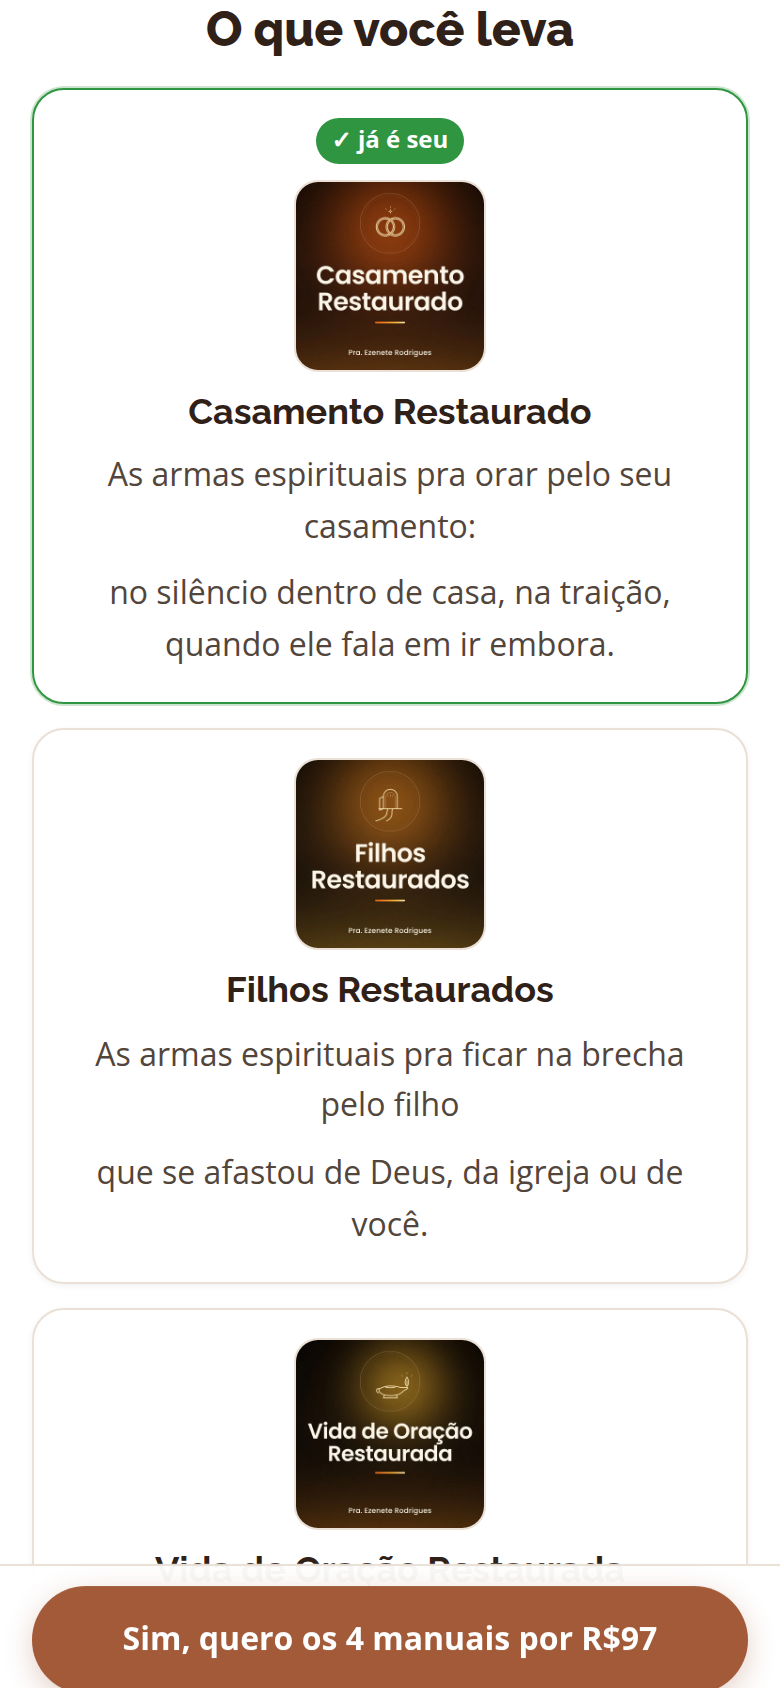
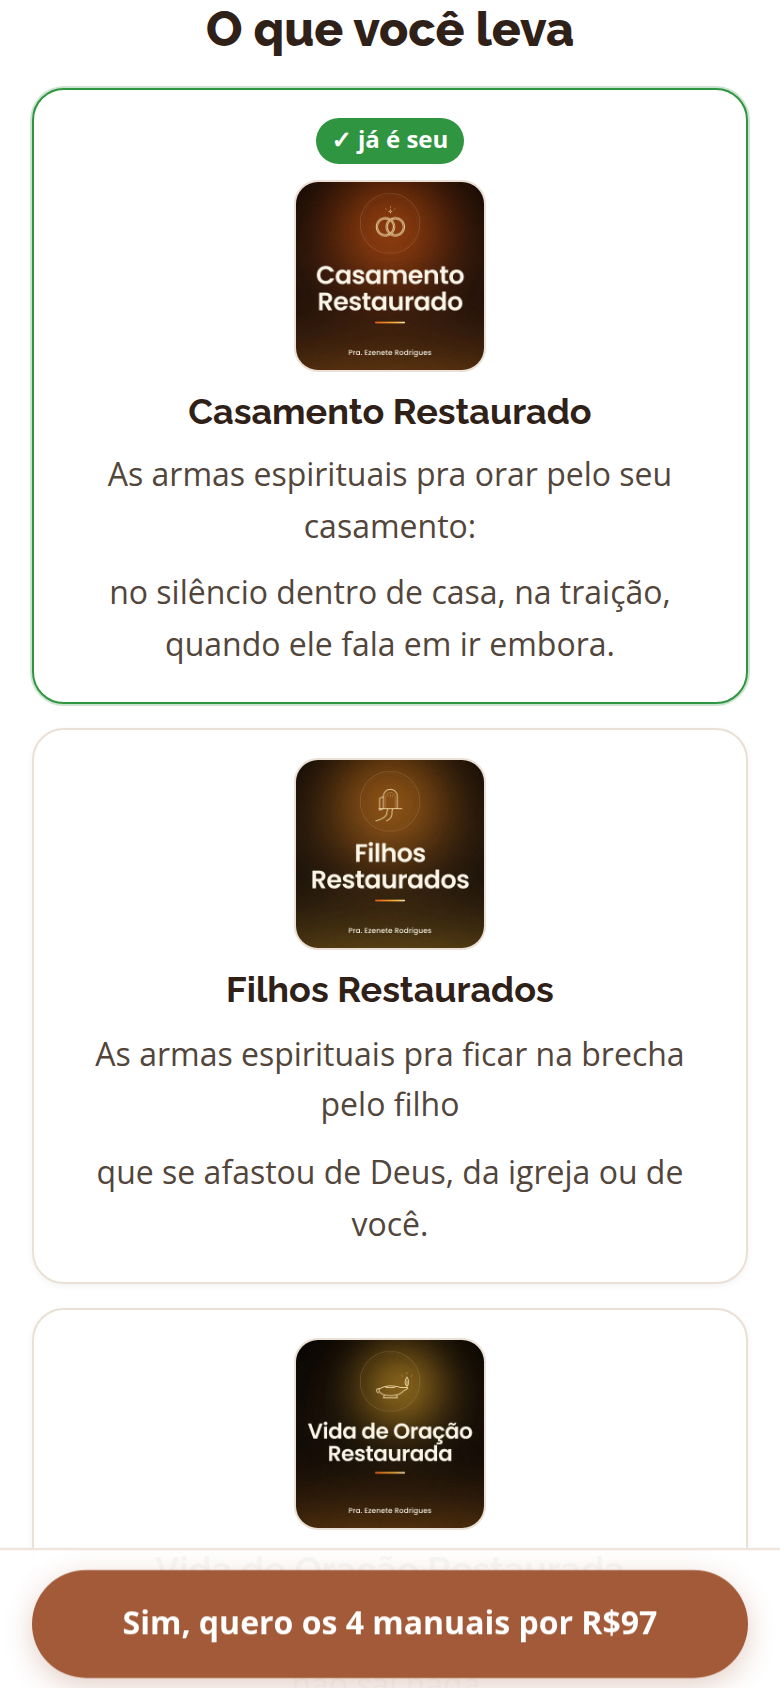
feat: ativa o script de obrigado da Eduzz nas duas ofertas
O thankyou.js entra no fim de cada widget. Sem transactionkey o bloco da Eduzz fica oculto e os links de checkout continuam os da página.

Changed region(s): [[0.0308, 0.9242, 0.9846, 1.0]]

diff --git a/paginas-wp/familia-restaurada-ofertas/preview/harness.html b/paginas-wp/familia-restaurada-ofertas/preview/harness.html
@@ -13,10 +13,6 @@
 </head>
 <body>
 <template id="tpl-upsell"><link rel="stylesheet" href="https://fonts.googleapis.com/css2?family=Raleway:wght@600;700;800&family=Open+Sans:ital,wght@0,400;0,500;0,600;0,700;1,400;1,600&display=swap">
-<!-- ===== EDUZZ THANK-YOU SCRIPT (Checkout Elements, Tópico 3) — PENDING FROM PETER =====
-     Paste the Eduzz script here, in place of the line below, and uncomment it. Change nothing else.
-<script>/* EDUZZ_SCRIPT_AQUI */</script>
-===== END EDUZZ SCRIPT ===== -->
 <div id="fr-oferta" data-page="upsell"></div>
 <style>
 /* Família Restaurada · oferta. Seletores presos em #fr-oferta (Elementor 3.4.6 / Astra). */
@@ -182,6 +178,8 @@ width:100%;max-width:100%;min-height:100vh;overflow-x:hidden;position:relative;
 #fr-oferta .fr-fixed{transition:none}
 }
 html.fr-qa #fr-oferta.fr-anim .fr-sec{opacity:1 !important;transform:none !important}
+/* Sem transactionkey o thankyou.js da Eduzz injeta #sun-loading e #sun-root (spinner e "transação não encontrada"). Escondidos para a oferta continuar intacta. Com a chave, a classe não entra e o bloco da Eduzz aparece. */
+html.fr-no-eduzz #sun-loading,html.fr-no-eduzz #sun-root{display:none !important}
 </style>
 <script>
 var CFG = {
@@ -704,12 +702,24 @@ render();
   bindAll(document);
 })();
 </script>
+<script>
+(function(){
+  var key = "";
+  try {
+    var q = new URLSearchParams(location.search);
+    key = q.get("transactionkey");
+    if (!key) key = q.get("transactionKey");
+  } catch (e) {}
+  if (!key) {
+    try { if (window.Eduzz) { if (window.Eduzz.transactionKey) key = window.Eduzz.transactionKey; } } catch (e2) {}
+  }
+  if (key) return;
+  document.documentElement.classList.add("fr-no-eduzz");
+})();
+</script>
+<script src="https://cdn.eduzzcdn.com/sun/thankyou/thankyou.js"></script>
 </template>
 <template id="tpl-downsell"><link rel="stylesheet" href="https://fonts.googleapis.com/css2?family=Raleway:wght@600;700;800&family=Open+Sans:ital,wght@0,400;0,500;0,600;0,700;1,400;1,600&display=swap">
-<!-- ===== EDUZZ THANK-YOU SCRIPT (Checkout Elements, Tópico 3) — PENDING FROM PETER =====
-     Paste the Eduzz script here, in place of the line below, and uncomment it. Change nothing else.
-<script>/* EDUZZ_SCRIPT_AQUI */</script>
-===== END EDUZZ SCRIPT ===== -->
 <div id="fr-oferta" data-page="downsell"></div>
 <style>
 /* Família Restaurada · oferta. Seletores presos em #fr-oferta (Elementor 3.4.6 / Astra). */
@@ -875,6 +885,8 @@ width:100%;max-width:100%;min-height:100vh;overflow-x:hidden;position:relative;
 #fr-oferta .fr-fixed{transition:none}
 }
 html.fr-qa #fr-oferta.fr-anim .fr-sec{opacity:1 !important;transform:none !important}
+/* Sem transactionkey o thankyou.js da Eduzz injeta #sun-loading e #sun-root (spinner e "transação não encontrada"). Escondidos para a oferta continuar intacta. Com a chave, a classe não entra e o bloco da Eduzz aparece. */
+html.fr-no-eduzz #sun-loading,html.fr-no-eduzz #sun-root{display:none !important}
 </style>
 <script>
 var CFG = {
@@ -1397,6 +1409,22 @@ render();
   bindAll(document);
 })();
 </script>
+<script>
+(function(){
+  var key = "";
+  try {
+    var q = new URLSearchParams(location.search);
+    key = q.get("transactionkey");
+    if (!key) key = q.get("transactionKey");
+  } catch (e) {}
+  if (!key) {
+    try { if (window.Eduzz) { if (window.Eduzz.transactionKey) key = window.Eduzz.transactionKey; } } catch (e2) {}
+  }
+  if (key) return;
+  document.documentElement.classList.add("fr-no-eduzz");
+})();
+</script>
+<script src="https://cdn.eduzzcdn.com/sun/thankyou/thankyou.js"></script>
 </template>
 <script>
 (function(){
@@ -1409,15 +1437,16 @@ render();
   if (!tpl) return;
   var frag = tpl.content.cloneNode(true);
   var scripts = frag.querySelectorAll("script");
-  var codes = [];
+  var jobs = [];
   Array.prototype.forEach.call(scripts, function(sc){
-    codes.push(sc.textContent || "");
+    jobs.push({ src: sc.getAttribute("src") || "", code: sc.textContent || "" });
     if (sc.parentNode) sc.parentNode.removeChild(sc);
   });
   document.body.appendChild(frag);
-  codes.forEach(function(code){
+  jobs.forEach(function(job){
     var s = document.createElement("script");
-    s.textContent = code;
+    if (job.src) s.src = job.src;
+    else s.textContent = job.code;
     document.body.appendChild(s);
   });
 })();

diff --git a/paginas-wp/familia-restaurada-ofertas/preview/familia-oferta-2/index.html b/paginas-wp/familia-restaurada-ofertas/preview/familia-oferta-2/index.html
@@ -9,10 +9,6 @@
 </head>
 <body>
 <link rel="stylesheet" href="https://fonts.googleapis.com/css2?family=Raleway:wght@600;700;800&family=Open+Sans:ital,wght@0,400;0,500;0,600;0,700;1,400;1,600&display=swap">
-<!-- ===== EDUZZ THANK-YOU SCRIPT (Checkout Elements, Tópico 3) — PENDING FROM PETER =====
-     Paste the Eduzz script here, in place of the line below, and uncomment it. Change nothing else.
-<script>/* EDUZZ_SCRIPT_AQUI */</script>
-===== END EDUZZ SCRIPT ===== -->
 <div id="fr-oferta" data-page="downsell"></div>
 <style>
 /* Família Restaurada · oferta. Seletores presos em #fr-oferta (Elementor 3.4.6 / Astra). */
@@ -178,6 +174,8 @@ width:100%;max-width:100%;min-height:100vh;overflow-x:hidden;position:relative;
 #fr-oferta .fr-fixed{transition:none}
 }
 html.fr-qa #fr-oferta.fr-anim .fr-sec{opacity:1 !important;transform:none !important}
+/* Sem transactionkey o thankyou.js da Eduzz injeta #sun-loading e #sun-root (spinner e "transação não encontrada"). Escondidos para a oferta continuar intacta. Com a chave, a classe não entra e o bloco da Eduzz aparece. */
+html.fr-no-eduzz #sun-loading,html.fr-no-eduzz #sun-root{display:none !important}
 </style>
 <script>
 var CFG = {
@@ -700,6 +698,22 @@ render();
   bindAll(document);
 })();
 </script>
+<script>
+(function(){
+  var key = "";
+  try {
+    var q = new URLSearchParams(location.search);
+    key = q.get("transactionkey");
+    if (!key) key = q.get("transactionKey");
+  } catch (e) {}
+  if (!key) {
+    try { if (window.Eduzz) { if (window.Eduzz.transactionKey) key = window.Eduzz.transactionKey; } } catch (e2) {}
+  }
+  if (key) return;
+  document.documentElement.classList.add("fr-no-eduzz");
+})();
+</script>
+<script src="https://cdn.eduzzcdn.com/sun/thankyou/thankyou.js"></script>
 
 </body>
 </html>

diff --git a/paginas-wp/familia-restaurada-ofertas/preview/familia-oferta/index.html b/paginas-wp/familia-restaurada-ofertas/preview/familia-oferta/index.html
@@ -9,10 +9,6 @@
 </head>
 <body>
 <link rel="stylesheet" href="https://fonts.googleapis.com/css2?family=Raleway:wght@600;700;800&family=Open+Sans:ital,wght@0,400;0,500;0,600;0,700;1,400;1,600&display=swap">
-<!-- ===== EDUZZ THANK-YOU SCRIPT (Checkout Elements, Tópico 3) — PENDING FROM PETER =====
-     Paste the Eduzz script here, in place of the line below, and uncomment it. Change nothing else.
-<script>/* EDUZZ_SCRIPT_AQUI */</script>
-===== END EDUZZ SCRIPT ===== -->
 <div id="fr-oferta" data-page="upsell"></div>
 <style>
 /* Família Restaurada · oferta. Seletores presos em #fr-oferta (Elementor 3.4.6 / Astra). */
@@ -178,6 +174,8 @@ width:100%;max-width:100%;min-height:100vh;overflow-x:hidden;position:relative;
 #fr-oferta .fr-fixed{transition:none}
 }
 html.fr-qa #fr-oferta.fr-anim .fr-sec{opacity:1 !important;transform:none !important}
+/* Sem transactionkey o thankyou.js da Eduzz injeta #sun-loading e #sun-root (spinner e "transação não encontrada"). Escondidos para a oferta continuar intacta. Com a chave, a classe não entra e o bloco da Eduzz aparece. */
+html.fr-no-eduzz #sun-loading,html.fr-no-eduzz #sun-root{display:none !important}
 </style>
 <script>
 var CFG = {
@@ -700,6 +698,22 @@ render();
   bindAll(document);
 })();
 </script>
+<script>
+(function(){
+  var key = "";
+  try {
+    var q = new URLSearchParams(location.search);
+    key = q.get("transactionkey");
+    if (!key) key = q.get("transactionKey");
+  } catch (e) {}
+  if (!key) {
+    try { if (window.Eduzz) { if (window.Eduzz.transactionKey) key = window.Eduzz.transactionKey; } } catch (e2) {}
+  }
+  if (key) return;
+  document.documentElement.classList.add("fr-no-eduzz");
+})();
+</script>
+<script src="https://cdn.eduzzcdn.com/sun/thankyou/thankyou.js"></script>
 
 </body>
 </html>

diff --git a/paginas-wp/familia-restaurada-ofertas/dist/downsell-widget.html b/paginas-wp/familia-restaurada-ofertas/dist/downsell-widget.html
@@ -1,8 +1,4 @@
 <link rel="stylesheet" href="https://fonts.googleapis.com/css2?family=Raleway:wght@600;700;800&family=Open+Sans:ital,wght@0,400;0,500;0,600;0,700;1,400;1,600&display=swap">
-<!-- ===== EDUZZ THANK-YOU SCRIPT (Checkout Elements, Tópico 3) — PENDING FROM PETER =====
-     Paste the Eduzz script here, in place of the line below, and uncomment it. Change nothing else.
-<script>/* EDUZZ_SCRIPT_AQUI */</script>
-===== END EDUZZ SCRIPT ===== -->
 <div id="fr-oferta" data-page="downsell"></div>
 <style>
 /* Família Restaurada · oferta. Seletores presos em #fr-oferta (Elementor 3.4.6 / Astra). */
@@ -168,6 +164,8 @@ width:100%;max-width:100%;min-height:100vh;overflow-x:hidden;position:relative;
 #fr-oferta .fr-fixed{transition:none}
 }
 html.fr-qa #fr-oferta.fr-anim .fr-sec{opacity:1 !important;transform:none !important}
+/* Sem transactionkey o thankyou.js da Eduzz injeta #sun-loading e #sun-root (spinner e "transação não encontrada"). Escondidos para a oferta continuar intacta. Com a chave, a classe não entra e o bloco da Eduzz aparece. */
+html.fr-no-eduzz #sun-loading,html.fr-no-eduzz #sun-root{display:none !important}
 </style>
 <script>
 var CFG = {
@@ -690,3 +688,19 @@ render();
   bindAll(document);
 })();
 </script>
+<script>
+(function(){
+  var key = "";
+  try {
+    var q = new URLSearchParams(location.search);
+    key = q.get("transactionkey");
+    if (!key) key = q.get("transactionKey");
+  } catch (e) {}
+  if (!key) {
+    try { if (window.Eduzz) { if (window.Eduzz.transactionKey) key = window.Eduzz.transactionKey; } } catch (e2) {}
+  }
+  if (key) return;
+  document.documentElement.classList.add("fr-no-eduzz");
+})();
+</script>
+<script src="https://cdn.eduzzcdn.com/sun/thankyou/thankyou.js"></script>

diff --git a/paginas-wp/familia-restaurada-ofertas/dist/upsell-widget.html b/paginas-wp/familia-restaurada-ofertas/dist/upsell-widget.html
@@ -1,8 +1,4 @@
 <link rel="stylesheet" href="https://fonts.googleapis.com/css2?family=Raleway:wght@600;700;800&family=Open+Sans:ital,wght@0,400;0,500;0,600;0,700;1,400;1,600&display=swap">
-<!-- ===== EDUZZ THANK-YOU SCRIPT (Checkout Elements, Tópico 3) — PENDING FROM PETER =====
-     Paste the Eduzz script here, in place of the line below, and uncomment it. Change nothing else.
-<script>/* EDUZZ_SCRIPT_AQUI */</script>
-===== END EDUZZ SCRIPT ===== -->
 <div id="fr-oferta" data-page="upsell"></div>
 <style>
 /* Família Restaurada · oferta. Seletores presos em #fr-oferta (Elementor 3.4.6 / Astra). */
@@ -168,6 +164,8 @@ width:100%;max-width:100%;min-height:100vh;overflow-x:hidden;position:relative;
 #fr-oferta .fr-fixed{transition:none}
 }
 html.fr-qa #fr-oferta.fr-anim .fr-sec{opacity:1 !important;transform:none !important}
+/* Sem transactionkey o thankyou.js da Eduzz injeta #sun-loading e #sun-root (spinner e "transação não encontrada"). Escondidos para a oferta continuar intacta. Com a chave, a classe não entra e o bloco da Eduzz aparece. */
+html.fr-no-eduzz #sun-loading,html.fr-no-eduzz #sun-root{display:none !important}
 </style>
 <script>
 var CFG = {
@@ -690,3 +688,19 @@ render();
   bindAll(document);
 })();
 </script>
+<script>
+(function(){
+  var key = "";
+  try {
+    var q = new URLSearchParams(location.search);
+    key = q.get("transactionkey");
+    if (!key) key = q.get("transactionKey");
+  } catch (e) {}
+  if (!key) {
+    try { if (window.Eduzz) { if (window.Eduzz.transactionKey) key = window.Eduzz.transactionKey; } } catch (e2) {}
+  }
+  if (key) return;
+  document.documentElement.classList.add("fr-no-eduzz");
+})();
+</script>
+<script src="https://cdn.eduzzcdn.com/sun/thankyou/thankyou.js"></script>

diff --git a/paginas-wp/familia-restaurada-ofertas/src/styles.css b/paginas-wp/familia-restaurada-ofertas/src/styles.css
@@ -161,3 +161,5 @@ width:100%;max-width:100%;min-height:100vh;overflow-x:hidden;position:relative;
 #fr-oferta .fr-fixed{transition:none}
 }
 html.fr-qa #fr-oferta.fr-anim .fr-sec{opacity:1 !important;transform:none !important}
+/* Sem transactionkey o thankyou.js da Eduzz injeta #sun-loading e #sun-root (spinner e "transação não encontrada"). Escondidos para a oferta continuar intacta. Com a chave, a classe não entra e o bloco da Eduzz aparece. */
+html.fr-no-eduzz #sun-loading,html.fr-no-eduzz #sun-root{display:none !important}

diff --git a/paginas-wp/familia-restaurada-ofertas/qa/links-report.md b/paginas-wp/familia-restaurada-ofertas/qa/links-report.md
@@ -4,7 +4,7 @@
 |---|---|---|---|
 | 1 upsell ?m=casamento sem UTM | accept quiz/funnel/familia-restaurada + sck + u=1, sem m; decline /familia-oferta-2/?m=casamento + defaults | accept https://chk.eduzz.com/crl53eyv?sck=11111111-2222-3333-4444-555555555555&utm_source=quiz&utm_medium=funnel&utm_campaign=familia-restaurada&u=1<br>decline /familia-oferta-2/?m=casamento&utm_source=quiz&utm_medium=funnel&utm_campaign=familia-restaurada | PASS |
 | 2 upsell ?m=filhos + utm + fbclid | accept utm fb/cpc/c1/a1 + fbclid + sck + u=1, sem m/organic; decline m=filhos + os mesmos utm | accept https://chk.eduzz.com/crl53eyv?sck=11111111-2222-3333-4444-555555555555&fbclid=FBX&utm_source=fb&utm_medium=cpc&utm_campaign=c1&utm_content=a1&u=1<br>decline /familia-oferta-2/?m=filhos&utm_source=fb&utm_medium=cpc&utm_campaign=c1&utm_content=a1 | PASS |
-| 3 upsell ?m=oracao UTMs só no fr_state | accept/decline usam o conjunto do fr_state; utm_data depois do load não tem m | accept https://chk.eduzz.com/crl53eyv?sck=11111111-2222-3333-4444-555555555555&utm_source=fb&utm_medium=paid&utm_campaign=fr-camp&utm_content=ad1&u=1<br>decline /familia-oferta-2/?m=oracao&utm_source=fb&utm_medium=paid&utm_campaign=fr-camp&utm_content=ad1<br>utm_data {"page":"upsell","timestamp":1790388393799,"utm_source":"fb","utm_medium":"paid","utm_campaign":"fr-camp","utm_content":"ad1"} | PASS |
+| 3 upsell ?m=oracao UTMs só no fr_state | accept/decline usam o conjunto do fr_state; utm_data depois do load não tem m | accept https://chk.eduzz.com/crl53eyv?sck=11111111-2222-3333-4444-555555555555&utm_source=fb&utm_medium=paid&utm_campaign=fr-camp&utm_content=ad1&u=1<br>decline /familia-oferta-2/?m=oracao&utm_source=fb&utm_medium=paid&utm_campaign=fr-camp&utm_content=ad1<br>utm_data {"page":"upsell","timestamp":1790388849631,"utm_source":"fb","utm_medium":"paid","utm_campaign":"fr-camp","utm_content":"ad1"} | PASS |
 | 4 upsell ?m=financeiro UTMs só no UTMify | accept usa utm_source=ig, utm_medium=cpc, utm_campaign=c9 | accept https://chk.eduzz.com/crl53eyv?sck=11111111-2222-3333-4444-555555555555&utm_source=ig&utm_medium=cpc&utm_campaign=c9&u=1 | PASS |
 | 5a upsell ?m=xyz default, decline sem m | data-m=default; decline /familia-oferta-2/ sem m; copy default | m=default decline /familia-oferta-2/?utm_source=quiz&utm_medium=funnel&utm_campaign=familia-restaurada | PASS |
 | 5b upsell sem m | data-m=default; decline sem m | m=default decline /familia-oferta-2/?utm_source=quiz&utm_medium=funnel&utm_campaign=familia-restaurada | PASS |

diff --git a/paginas-wp/familia-restaurada-ofertas/qa/visual-report.md b/paginas-wp/familia-restaurada-ofertas/qa/visual-report.md
@@ -24,9 +24,17 @@ Nenhum.
 
 Nenhuma.
 
+## Eduzz thankyou.js sem transactionkey
+
+- upsell/default sem chave: tags=1 fr-no-eduzz=true sunVisivel=false spinnerVisivel=false oferta=true
+- downsell/default sem chave: tags=1 fr-no-eduzz=true sunVisivel=false spinnerVisivel=false oferta=true
+
+O script carrega nas duas páginas. Sem transactionkey ele pede GET https://elements-api.eduzz.com/thankyou/ com a query da página e recebe 404. O bloco (#sun-root / #sun-loading) fica oculto (html.fr-no-eduzz). Chamadas vistas: 33.
+
 ## Erros de console / pageerror
 
-Nenhum.
+Nenhum erro nosso. O 404 do lookup da Eduzz sem transactionkey não quebra a página.
+
 
 ## Pesos locais (cópias da biblioteca)
 
